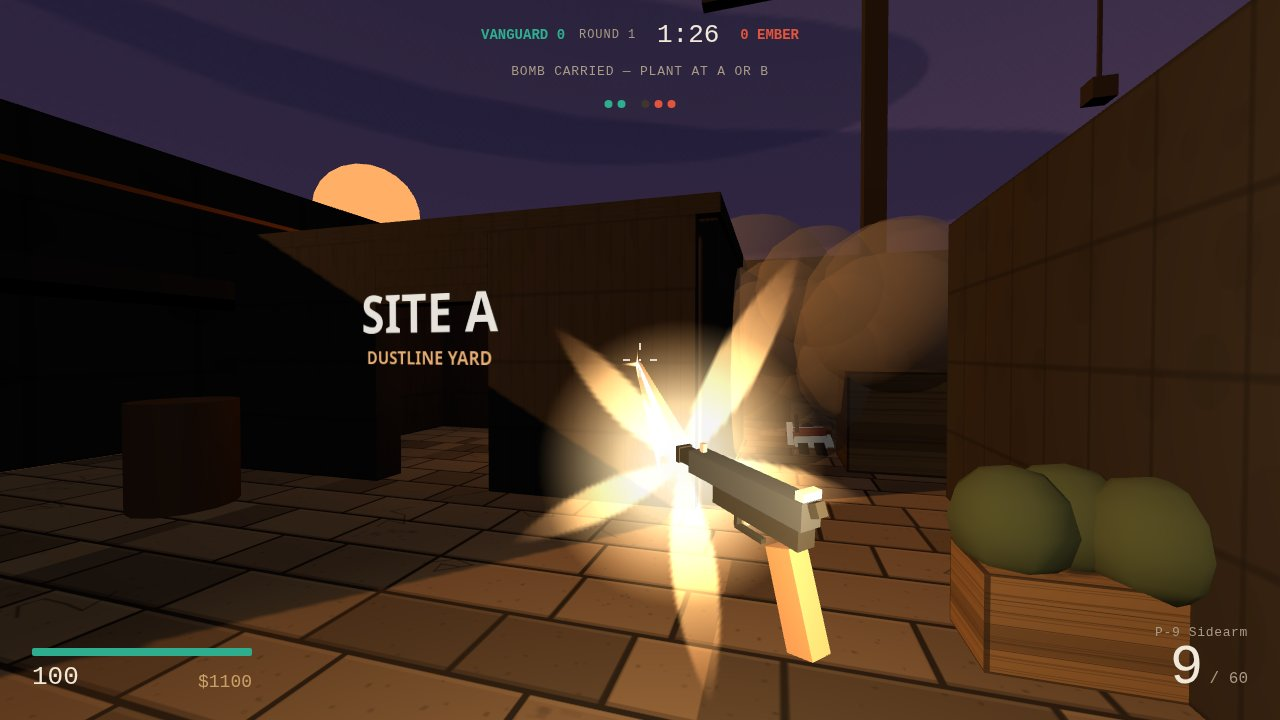
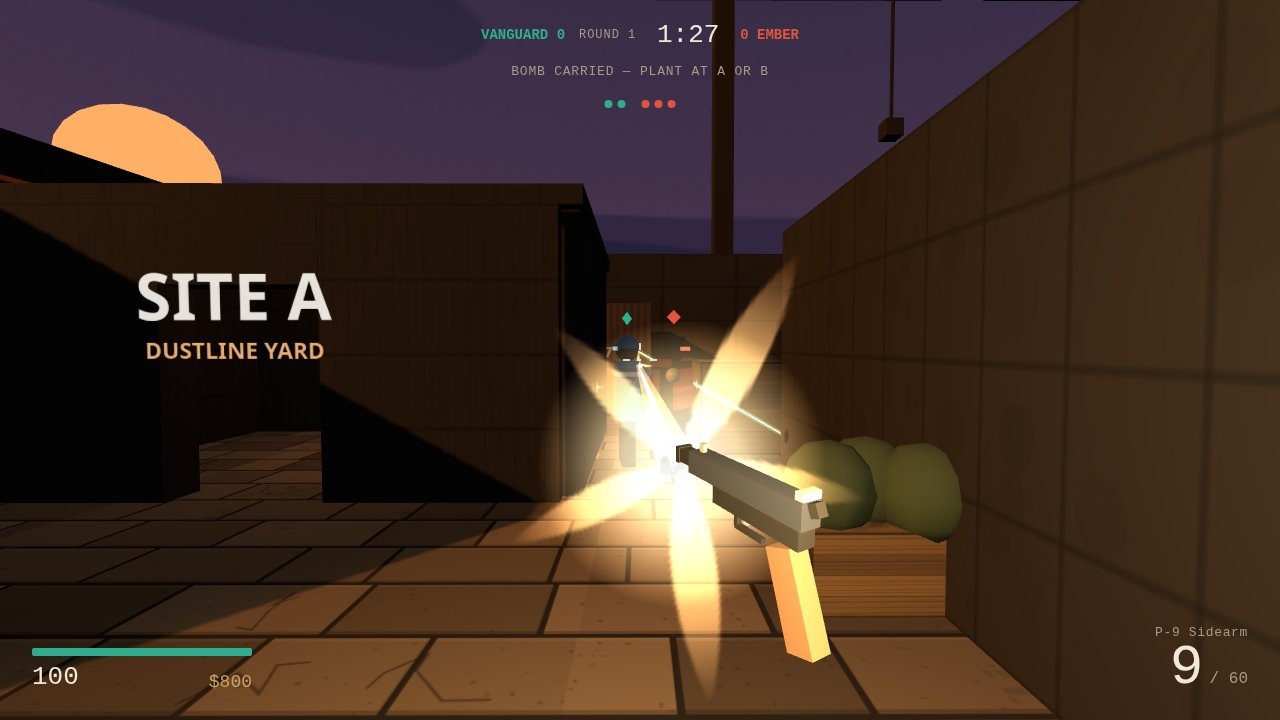
DUSTLINE v2.4: play shot frames both teams (Vanguard blue vs Ember dark)

diff --git a/game/src/main.js b/game/src/main.js
@@ -816,20 +816,20 @@ function runShot(name) {
     enemy.mover.place(-12, -6, Math.PI);
     enemy.body.group.position.set(-12, 0, -6);
     const friend = bots.list.find((bot) => bot.team === 'atk');
-    friend.mover.place(-9, 0, 0);
-    friend.body.group.position.set(-9, 0, 0);
+    friend.mover.place(-12, -3.5, 0);
+    friend.body.group.position.set(-12, 0, -3.5);
     settle(20);
     const enemyPoint = (height) => new THREE.Vector3(enemy.mover.state.position.x, height, enemy.mover.state.position.z);
-    aimAt(enemyPoint(1.2));
+    aimAt(new THREE.Vector3(-13, 1.2, -6));
     shoot(0);
     settle(8);
-    aimAt(enemyPoint(1.53));
+    aimAt(enemyPoint(1.0));
     shoot(0);
     settle(12);
     camera.getWorldDirection(direction);
     smoke.throwFrom(camera.position, direction);
-    settle(100);
-    aimAt(new THREE.Vector3(-15.5, 1.3, -10));
+    settle(25);
+    aimAt(new THREE.Vector3(-12, 1.3, -4.75));
     shoot(0);
     arsenal.step(0, false);
   } else if (name === 'end') {
